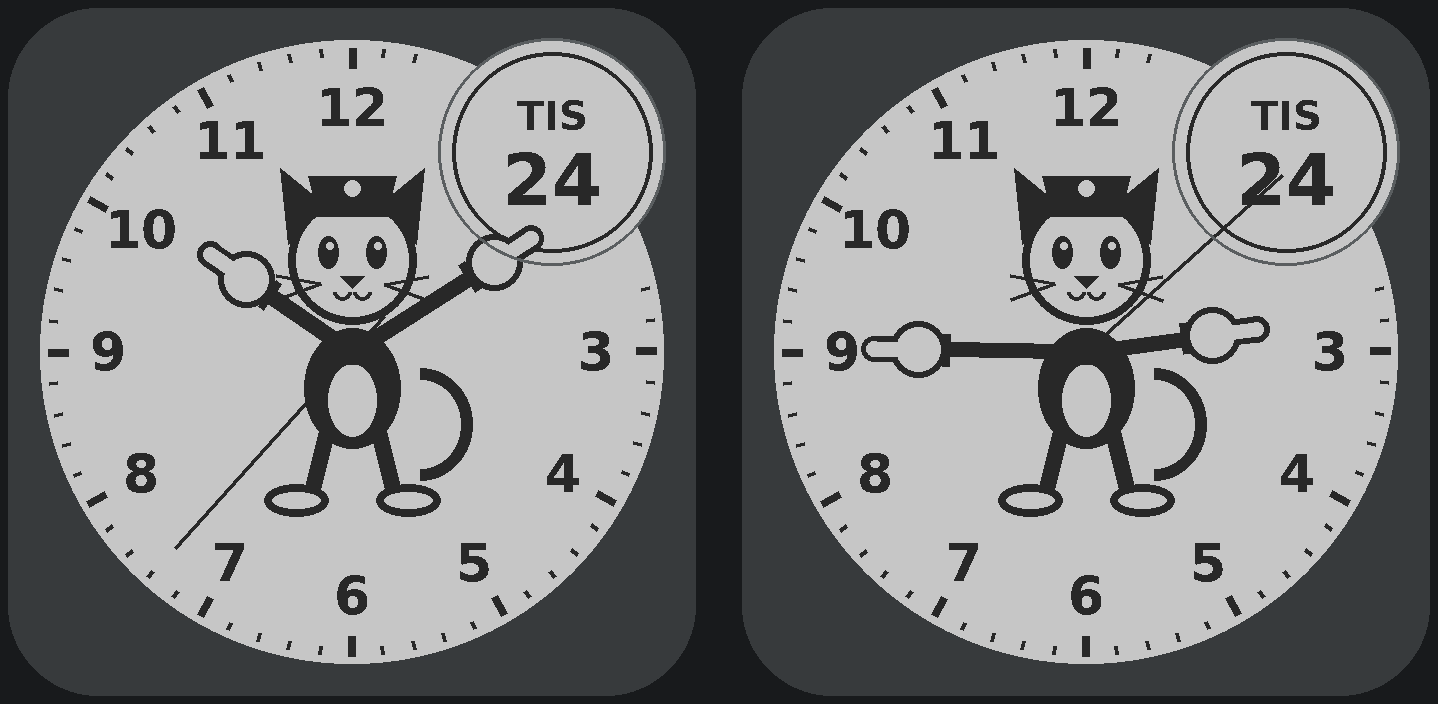
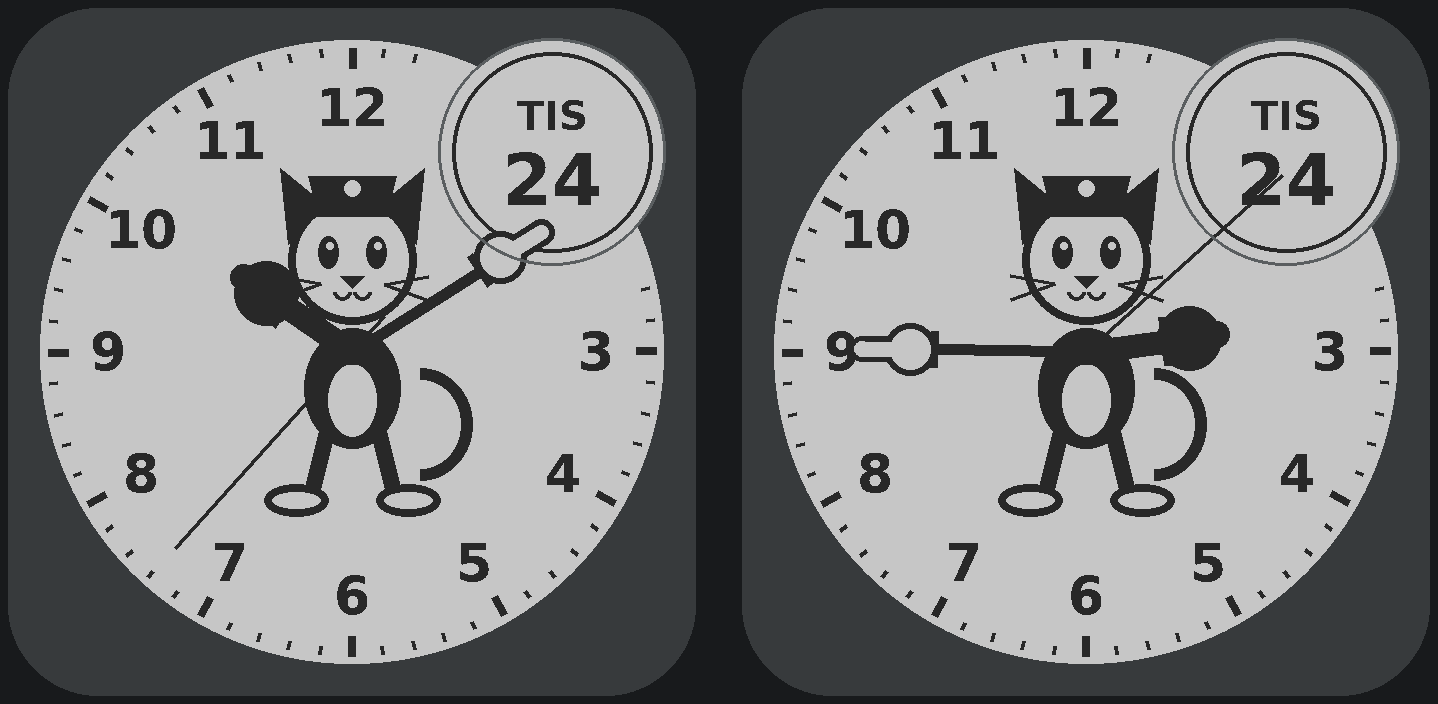
Add light Field variant; make cat's hour and minute arms distinct
Field Ljus: separate app id and name built from the same source via
monkey-light.jungle, with the light dial as default.

Kapten Katt: hour arm is short and thick with a black glove, minute
arm long and thin with a white glove and long pointing finger.

Claude-Session: https://claude.ai/code/session_01NPdWPXN8oQwhuS5rb4MfVs

diff --git a/garmin-field-watchface/README.md b/garmin-field-watchface/README.md
@@ -11,6 +11,13 @@ En analog urtavla i klassisk militär fältklocke-stil för Connect IQ.
 - Ihåliga visare och en tunn sekundvisare med pilspets, som syns när du tittar på klockan
 - Veckodag och datumfönster i det runda fönstret uppe till höger
 
+## Ljus version
+
+Det finns också en inverterad version, **Field Ljus**, med mörka visare och siffror på ljus urtavla.
+Den har ett eget app-id, så du kan ha båda installerade och växla mellan dem på klockan.
+
+![Förhandsvisning ljus](preview-light.png)
+
 ## Inställningar
 
 - **Ljus urtavla**: mörkt på ljust i stället för ljust på mörkt (av som standard).
@@ -21,7 +28,13 @@ En analog urtavla i klassisk militär fältklocke-stil för Connect IQ.
 Samma steg som för `garmin-marathon-watchface`, se dess README. Kort version:
 
 ```sh
+# Mörk version
 monkeyc -f monkey.jungle -d instinct2s -y /sökväg/till/developer_key.der -o bin/Field.prg
+# Ljus version
+monkeyc -f monkey-light.jungle -d instinct2s -y /sökväg/till/developer_key.der -o bin/FieldLjus.prg
 ```
 
-Kopiera sedan `Field.prg` till `GARMIN/APPS` på klockan.
+I VS Code väljer du vilken jungle-fil som gäller under inställningen **Monkey C: Jungle Files**
+(`monkey.jungle` eller `monkey-light.jungle`).
+
+Kopiera sedan `.prg`-filen eller filerna till `GARMIN/APPS` på klockan.

diff --git a/garmin-cat-watchface/README.md b/garmin-cat-watchface/README.md
@@ -9,7 +9,9 @@ långa armen minuter.
 *Förhandsbilden är ritad med samma geometri som koden men med ungefärliga typsnitt.*
 
 - Siffrorna 1–12 med minutstreck
-- Armar med pekande handskar som visare och en tunn sekundvisare som syns när du tittar på klockan
+- **Timvisare:** kort, tjock arm med svart handske
+- **Minutvisare:** lång, smal arm med vit handske och långt pekfinger
+- Tunn sekundvisare som syns när du tittar på klockan
 - Veckodag och datum i det runda fönstret uppe till höger
 
 ## Inställningar
